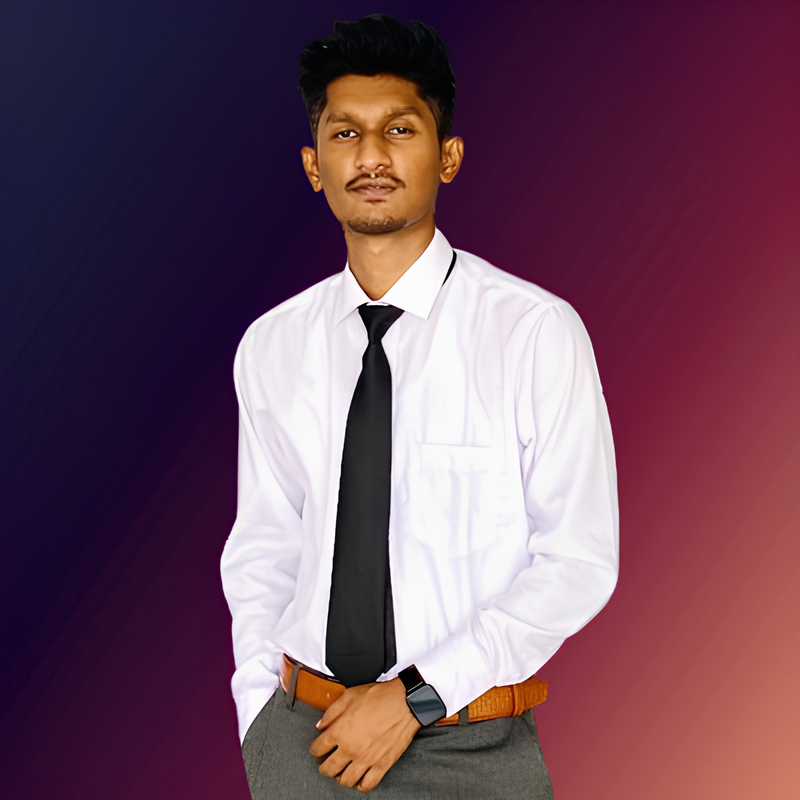
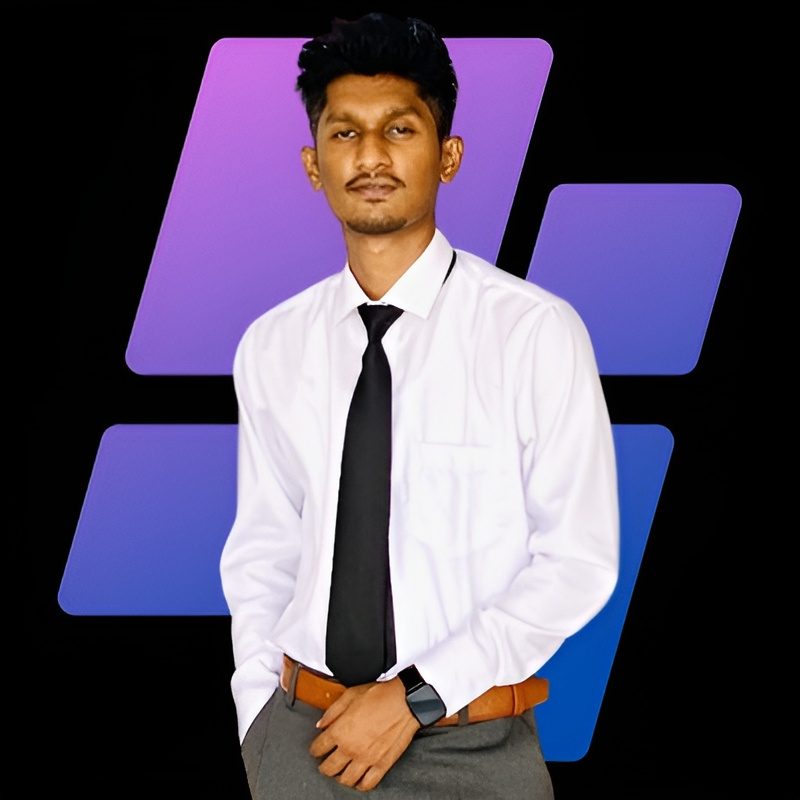
image update

diff --git a/src/component/homepage/pages/Banner/page.jsx b/src/component/homepage/pages/Banner/page.jsx
@@ -98,9 +98,9 @@ const Banner = () => {
               <Image
                 src={banner}
                 alt="banner"
-                width={300}
-                height={300}
-                className="rounded-full w-48 sm:w-64 md:w-72 lg:w-80 h-auto object-cover"
+                width={500}
+                height={500}
+                className="rounded-md w-48 sm:w-64 md:w-72 lg:w-80 h-auto object-cover"
               />
             </div>
 

diff --git a/src/assets/index.js b/src/assets/index.js
@@ -5,11 +5,11 @@ export const assets = {
   },
   portfolio: {
     p1: "/portfolio/p1.jpg",
-    p2: "/portfolio/p6.png",
-    p3: "/portfolio/p2.png",
-    p4: "/portfolio/p3.png",
-    p5: "/portfolio/p4.png",
-    p6: "/portfolio/p5.png",
+    p2: "/portfolio/p2.jpg",
+    p3: "/portfolio/p3.jpg",
+    p4: "/portfolio/p4.jpg",
+    p5: "/portfolio/p5.jpg",
+    p6: "/portfolio/p6.jpg",
   },
   testimonial: {
     abir: "/testimonial/abir.jpg",
